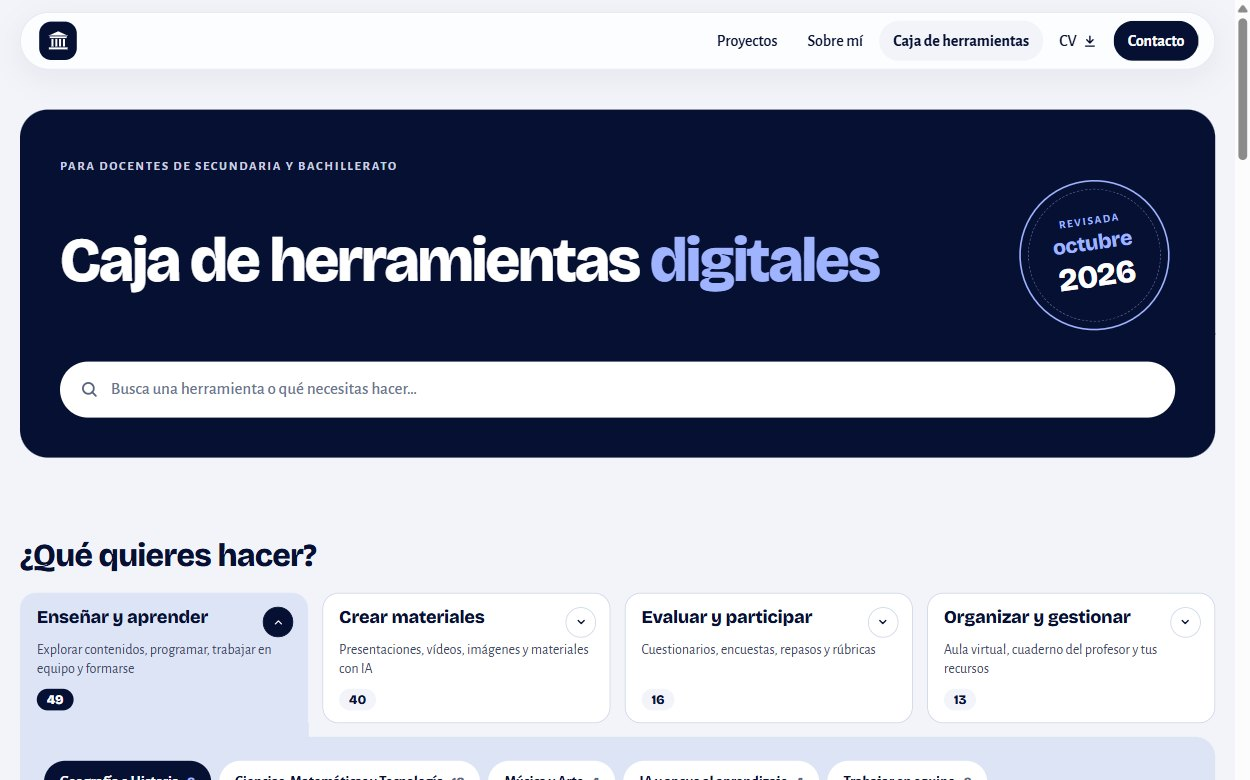
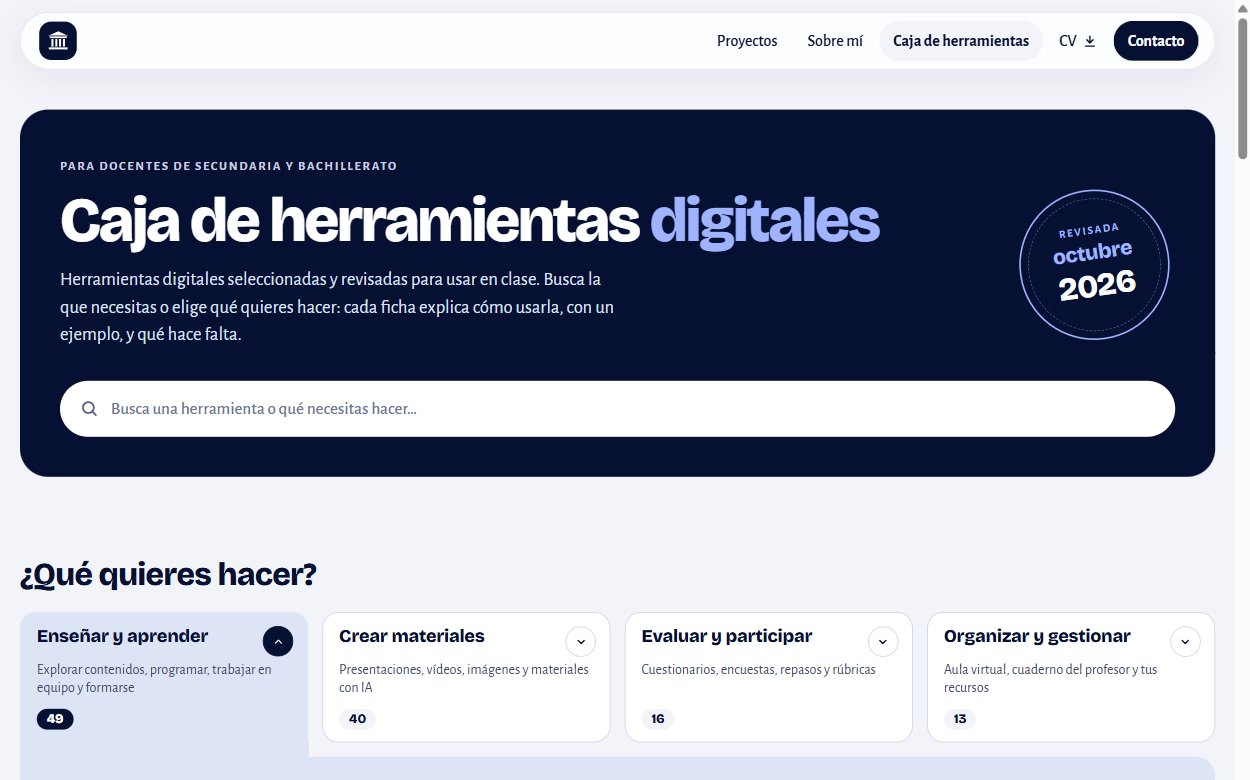
Proyectos en categorías desplegables; descripciones bajo los títulos; descripción en el hero de la Caja
- /proyectos/: las tres categorías despliegan sus proyectos debajo, como en la Caja. Profesorado y formación, la del repositorio, va primera y abierta; una abierta a la vez.
- En todo el portfolio la descripción de cada título va debajo, no a la derecha (también el botón de «Proyectos relacionados»).
- Caja de herramientas: breve descripción en el hero.

diff --git a/proyectos/index.html b/proyectos/index.html
@@ -16,7 +16,7 @@
 <link rel="preconnect" href="https://fonts.googleapis.com">
 <link rel="preconnect" href="https://fonts.gstatic.com" crossorigin>
 <link rel="stylesheet" href="https://fonts.googleapis.com/css2?family=Alegreya+SC:wght@700&family=Alegreya+Sans:ital,wght@0,400;0,500;0,700;1,400&family=Bricolage+Grotesque:opsz,wght@12..96,500;12..96,700;12..96,800&display=swap">
-<link rel="stylesheet" href="/assets/site.css?v=20">
+<link rel="stylesheet" href="/assets/site.css?v=21">
 </head>
 <body>
 <a class="skip" href="#contenido">Saltar al contenido</a>
@@ -40,13 +40,60 @@
    <div><span class="lab">Proyectos</span><h1 class="h1page">Todo lo que he construido</h1></div>
    <p>14 trabajos agrupados por para qué sirven. Los proyectos más grandes se explican a fondo; las actividades y recursos tienen una ficha breve con su descarga o su enlace.</p>
   </div>
-  <div class="catnav rv" role="group" aria-label="Filtrar por categoría"><button type="button" data-cat="all" aria-pressed="true">Todos <span>14</span></button><button type="button" data-cat="herramientas" aria-pressed="false">Herramientas y asistentes <span>3</span></button><button type="button" data-cat="aula" aria-pressed="false">Actividades de aula <span>6</span></button><button type="button" data-cat="profesorado" aria-pressed="false">Profesorado y formación <span>5</span></button></div>
-  <p class="vh" aria-live="polite" id="filtro-estado"></p>
  </section>
 
- <section class="pcat" id="herramientas" aria-labelledby="h-herramientas">
-  <div class="pcat-head rv"><h2 id="h-herramientas">Herramientas y asistentes</h2><p>Aplicaciones y asistentes que he diseñado para que el alumnado o el docente trabajen de otra manera.</p></div>
-  <div class="pgrid g3">
+ <section class="pcats" aria-label="Proyectos por categoría">
+  <div class="cgrid">
+  <h2 class="cg-h" id="profesorado" style="--i:0"><button type="button" class="cg" id="cg-profesorado" aria-expanded="true" aria-controls="cp-profesorado"><b>Profesorado y formación</b><span class="gi"><svg viewBox="0 0 24 24" aria-hidden="true"><path d="m6 9 6 6 6-6"/></svg></span><span class="gd">Recursos y guías para el trabajo del docente, y el portfolio de mi propia formación.</span><span class="num">5<span class="vh"> proyectos</span></span></button></h2>
+  <div class="cgp" id="cp-profesorado" role="region" aria-labelledby="cg-profesorado" style="--i:0"><div class="pgrid g3">
+<a class="t pc lift rv" href="/proyectos/repositorio-digital/">
+ <span class="arrow" aria-hidden="true"><svg viewBox="0 0 24 24" aria-hidden="true"><path d="M7 17 17 7M8 7h9v9"/></svg></span>
+ <div class="viz v-caja" aria-hidden="true"><div class="belt"><div class="track"><img src="/herramientas/logos/gemini.png" alt="" width="34" height="34" loading="lazy"><img src="/herramientas/logos/notebooklm.png" alt="" width="34" height="34" loading="lazy"><img src="/herramientas/logos/genially.png" alt="" width="34" height="34" loading="lazy"><img src="/herramientas/logos/canva.png" alt="" width="34" height="34" loading="lazy"><img src="/herramientas/logos/kahoot.png" alt="" width="34" height="34" loading="lazy"><img src="/herramientas/logos/padlet.png" alt="" width="34" height="34" loading="lazy"><img src="/herramientas/logos/geogebra.png" alt="" width="34" height="34" loading="lazy"><img src="/herramientas/logos/edpuzzle.png" alt="" width="34" height="34" loading="lazy"><img src="/herramientas/logos/artsculture.png" alt="" width="34" height="34" loading="lazy"><img src="/herramientas/logos/wayground.png" alt="" width="34" height="34" loading="lazy"><img src="/herramientas/logos/copilot.png" alt="" width="34" height="34" loading="lazy"><img src="/herramientas/logos/timetoast.png" alt="" width="34" height="34" loading="lazy"><img src="/herramientas/logos/phet.png" alt="" width="34" height="34" loading="lazy"><img src="/herramientas/logos/bookcreator.png" alt="" width="34" height="34" loading="lazy"><img src="/herramientas/logos/wooclap.png" alt="" width="34" height="34" loading="lazy"><img src="/herramientas/logos/scratch.png" alt="" width="34" height="34" loading="lazy"><img src="/herramientas/logos/gemini.png" alt="" width="34" height="34" loading="lazy"><img src="/herramientas/logos/notebooklm.png" alt="" width="34" height="34" loading="lazy"><img src="/herramientas/logos/genially.png" alt="" width="34" height="34" loading="lazy"><img src="/herramientas/logos/canva.png" alt="" width="34" height="34" loading="lazy"><img src="/herramientas/logos/kahoot.png" alt="" width="34" height="34" loading="lazy"><img src="/herramientas/logos/padlet.png" alt="" width="34" height="34" loading="lazy"><img src="/herramientas/logos/geogebra.png" alt="" width="34" height="34" loading="lazy"><img src="/herramientas/logos/edpuzzle.png" alt="" width="34" height="34" loading="lazy"><img src="/herramientas/logos/artsculture.png" alt="" width="34" height="34" loading="lazy"><img src="/herramientas/logos/wayground.png" alt="" width="34" height="34" loading="lazy"><img src="/herramientas/logos/copilot.png" alt="" width="34" height="34" loading="lazy"><img src="/herramientas/logos/timetoast.png" alt="" width="34" height="34" loading="lazy"><img src="/herramientas/logos/phet.png" alt="" width="34" height="34" loading="lazy"><img src="/herramientas/logos/bookcreator.png" alt="" width="34" height="34" loading="lazy"><img src="/herramientas/logos/wooclap.png" alt="" width="34" height="34" loading="lazy"><img src="/herramientas/logos/scratch.png" alt="" width="34" height="34" loading="lazy"></div></div><div class="belt rev"><div class="track"><img src="/herramientas/logos/gemini.png" alt="" width="34" height="34" loading="lazy"><img src="/herramientas/logos/notebooklm.png" alt="" width="34" height="34" loading="lazy"><img src="/herramientas/logos/genially.png" alt="" width="34" height="34" loading="lazy"><img src="/herramientas/logos/canva.png" alt="" width="34" height="34" loading="lazy"><img src="/herramientas/logos/kahoot.png" alt="" width="34" height="34" loading="lazy"><img src="/herramientas/logos/padlet.png" alt="" width="34" height="34" loading="lazy"><img src="/herramientas/logos/geogebra.png" alt="" width="34" height="34" loading="lazy"><img src="/herramientas/logos/edpuzzle.png" alt="" width="34" height="34" loading="lazy"><img src="/herramientas/logos/artsculture.png" alt="" width="34" height="34" loading="lazy"><img src="/herramientas/logos/wayground.png" alt="" width="34" height="34" loading="lazy"><img src="/herramientas/logos/copilot.png" alt="" width="34" height="34" loading="lazy"><img src="/herramientas/logos/timetoast.png" alt="" width="34" height="34" loading="lazy"><img src="/herramientas/logos/phet.png" alt="" width="34" height="34" loading="lazy"><img src="/herramientas/logos/bookcreator.png" alt="" width="34" height="34" loading="lazy"><img src="/herramientas/logos/wooclap.png" alt="" width="34" height="34" loading="lazy"><img src="/herramientas/logos/scratch.png" alt="" width="34" height="34" loading="lazy"><img src="/herramientas/logos/gemini.png" alt="" width="34" height="34" loading="lazy"><img src="/herramientas/logos/notebooklm.png" alt="" width="34" height="34" loading="lazy"><img src="/herramientas/logos/genially.png" alt="" width="34" height="34" loading="lazy"><img src="/herramientas/logos/canva.png" alt="" width="34" height="34" loading="lazy"><img src="/herramientas/logos/kahoot.png" alt="" width="34" height="34" loading="lazy"><img src="/herramientas/logos/padlet.png" alt="" width="34" height="34" loading="lazy"><img src="/herramientas/logos/geogebra.png" alt="" width="34" height="34" loading="lazy"><img src="/herramientas/logos/edpuzzle.png" alt="" width="34" height="34" loading="lazy"><img src="/herramientas/logos/artsculture.png" alt="" width="34" height="34" loading="lazy"><img src="/herramientas/logos/wayground.png" alt="" width="34" height="34" loading="lazy"><img src="/herramientas/logos/copilot.png" alt="" width="34" height="34" loading="lazy"><img src="/herramientas/logos/timetoast.png" alt="" width="34" height="34" loading="lazy"><img src="/herramientas/logos/phet.png" alt="" width="34" height="34" loading="lazy"><img src="/herramientas/logos/bookcreator.png" alt="" width="34" height="34" loading="lazy"><img src="/herramientas/logos/wooclap.png" alt="" width="34" height="34" loading="lazy"><img src="/herramientas/logos/scratch.png" alt="" width="34" height="34" loading="lazy"></div></div></div>
+ <div class="pc-tags">Web de recursos · Profesorado</div>
+ <h3>Repositorio digital docente</h3>
+ <p>La web de herramientas que creé para un centro en 2024 y su revisión de 2026 para Secundaria.</p>
+</a>
+<a class="t pc lift rv" href="/proyectos/audita-tu-programacion/">
+ <span class="arrow" aria-hidden="true"><svg viewBox="0 0 24 24" aria-hidden="true"><path d="M7 17 17 7M8 7h9v9"/></svg></span>
+ <div class="viz v-aud" aria-hidden="true"><div class="made"><span><img src="/assets/tools/notebooklm.png" alt="" width="20" height="20" loading="lazy">NotebookLM</span></div>
+     <div class="row"><b>2.1</b><small>Actividad · UD 4, p. 18</small><span class="ok">✓</span></div>
+     <div class="row"><b>3.2</b><small>Solo en la tabla</small><span class="stamp">NO LOCALIZADO</span></div>
+     <div class="row"><b>5.1</b><small>Actividad · UD 7, p. 31</small><span class="ok">✓</span></div></div>
+ <div class="pc-tags">Guía (PDF) · Profesorado</div>
+ <h3>Audita tu programación</h3>
+ <p>Un método con NotebookLM para encontrar criterios de evaluación que no se evalúan en ninguna actividad.</p>
+</a>
+<a class="t pc lift rv" href="/proyectos/el-bombo/">
+ <span class="arrow" aria-hidden="true"><svg viewBox="0 0 24 24" aria-hidden="true"><path d="M7 17 17 7M8 7h9v9"/></svg></span>
+ <div class="viz v-bombo" aria-hidden="true"><div class="made"><span><img src="/assets/tools/claude.png" alt="" width="20" height="20" loading="lazy">Claude</span></div>
+     <div class="drum"><i style="left:14px;top:20px">7</i><i style="left:62px;top:16px">23</i><i style="left:40px;top:58px">51</i><i style="left:12px;top:66px">12</i><i style="left:70px;top:62px">40</i></div>
+     <div><div class="out"><span>18</span><span class="mine">4</span><span>66</span></div><small>¿Saldrá alguno de tus temas?</small></div></div>
+ <div class="pc-tags">Aplicación web · Opositores</div>
+ <h3>El bombo</h3>
+ <p>Calcula la probabilidad de que salga alguno de tus temas en el sorteo de las oposiciones.</p>
+</a>
+<a class="t pc lift rv" href="/proyectos/rubrica-materiales-digitales/">
+ <span class="arrow" aria-hidden="true"><svg viewBox="0 0 24 24" aria-hidden="true"><path d="M7 17 17 7M8 7h9v9"/></svg></span>
+ <div class="viz v-rub" aria-hidden="true"><div class="made"><span><img src="/assets/tools/jotform.png" alt="" width="20" height="20" loading="lazy">Jotform</span></div>
+     <div class="r"><span>Calidad del contenido</span><span class="lv"><i></i><i></i><i></i><i></i></span></div>
+     <div class="r"><span>Accesibilidad</span><span class="lv"><i></i><i></i><i></i><i></i></span></div>
+     <div class="r"><span>Uso en el aula</span><span class="lv"><i></i><i></i><i></i><i></i></span></div></div>
+ <div class="pc-tags">Formulario · Profesorado</div>
+ <h3>Rúbrica de materiales digitales</h3>
+ <p>Una rúbrica en formulario para valorar un recurso digital antes de llevarlo al aula.</p>
+</a>
+<a class="t pc lift rv" href="/proyectos/e-portfolio-master/">
+ <span class="arrow" aria-hidden="true"><svg viewBox="0 0 24 24" aria-hidden="true"><path d="M7 17 17 7M8 7h9v9"/></svg></span>
+ <div class="viz v-epo" aria-hidden="true"><div class="made"><span><img src="/assets/tools/google-sites.png" alt="" width="20" height="20" loading="lazy">Google Sites</span></div>
+     <div class="bar2"><i></i><i></i><i></i><span></span></div>
+     <div class="pg"><span class="m">M1<small>módulo</small></span><span class="m">M2<small>módulo</small></span><span class="m">M3<small>módulo</small></span><span class="m">M4<small>módulo</small></span><span class="m">M5<small>módulo</small></span></div></div>
+ <div class="pc-tags">Portfolio · Máster</div>
+ <h3>e-Portfolio del máster</h3>
+ <p>Los cinco módulos del Máster en Tecnología Educativa reunidos en una web.</p>
+</a>
+  </div></div>
+  <h2 class="cg-h" id="herramientas" style="--i:1"><button type="button" class="cg" id="cg-herramientas" aria-expanded="false" aria-controls="cp-herramientas"><b>Herramientas y asistentes</b><span class="gi"><svg viewBox="0 0 24 24" aria-hidden="true"><path d="m6 9 6 6 6-6"/></svg></span><span class="gd">Aplicaciones y asistentes que he diseñado para que el alumnado o el docente trabajen de otra manera.</span><span class="num">3<span class="vh"> proyectos</span></span></button></h2>
+  <div class="cgp" id="cp-herramientas" role="region" aria-labelledby="cg-herramientas" style="--i:1" hidden><div class="pgrid g3">
 <a class="t pc lift rv" href="/proyectos/consejo-de-clio/">
  <span class="arrow" aria-hidden="true"><svg viewBox="0 0 24 24" aria-hidden="true"><path d="M7 17 17 7M8 7h9v9"/></svg></span>
  <div class="viz v-council" aria-hidden="true"><div class="council">
@@ -80,11 +127,9 @@
  <h3>Mapa de relieves de la Península Ibérica</h3>
  <p>Un mapa interactivo que localiza cada relieve, era geológica o agente erosivo y lo explica.</p>
 </a>
-  </div>
- </section>
- <section class="pcat" id="aula" aria-labelledby="h-aula">
-  <div class="pcat-head rv"><h2 id="h-aula">Actividades de aula</h2><p>Situaciones de aprendizaje listas para llevar a clase, con su guía docente y sus materiales.</p></div>
-  <div class="pgrid g3">
+  </div></div>
+  <h2 class="cg-h" id="aula" style="--i:2"><button type="button" class="cg" id="cg-aula" aria-expanded="false" aria-controls="cp-aula"><b>Actividades de aula</b><span class="gi"><svg viewBox="0 0 24 24" aria-hidden="true"><path d="m6 9 6 6 6-6"/></svg></span><span class="gd">Situaciones de aprendizaje listas para llevar a clase, con su guía docente y sus materiales.</span><span class="num">6<span class="vh"> proyectos</span></span></button></h2>
+  <div class="cgp" id="cp-aula" role="region" aria-labelledby="cg-aula" style="--i:2" hidden><div class="pgrid g3">
 <a class="t pc lift rv" href="/proyectos/cazadores-de-bulos/">
  <span class="arrow" aria-hidden="true"><svg viewBox="0 0 24 24" aria-hidden="true"><path d="M7 17 17 7M8 7h9v9"/></svg></span>
  <div class="viz v-bulos" aria-hidden="true"><span class="lupa"></span>
@@ -139,61 +184,13 @@
  <h3>Excursión a Roma en 3D</h3>
  <p>Un mundo 3D con edificios de la Antigua Roma para recorrer su arquitectura.</p>
 </a>
+  </div></div>
   </div>
- </section>
- <section class="pcat" id="profesorado" aria-labelledby="h-profesorado">
-  <div class="pcat-head rv"><h2 id="h-profesorado">Profesorado y formación</h2><p>Recursos y guías para el trabajo del docente, y el portfolio de mi propia formación.</p></div>
-  <div class="pgrid g3">
-<a class="t pc lift rv" href="/proyectos/repositorio-digital/">
- <span class="arrow" aria-hidden="true"><svg viewBox="0 0 24 24" aria-hidden="true"><path d="M7 17 17 7M8 7h9v9"/></svg></span>
- <div class="viz v-caja" aria-hidden="true"><div class="belt"><div class="track"><img src="/herramientas/logos/gemini.png" alt="" width="34" height="34" loading="lazy"><img src="/herramientas/logos/notebooklm.png" alt="" width="34" height="34" loading="lazy"><img src="/herramientas/logos/genially.png" alt="" width="34" height="34" loading="lazy"><img src="/herramientas/logos/canva.png" alt="" width="34" height="34" loading="lazy"><img src="/herramientas/logos/kahoot.png" alt="" width="34" height="34" loading="lazy"><img src="/herramientas/logos/padlet.png" alt="" width="34" height="34" loading="lazy"><img src="/herramientas/logos/geogebra.png" alt="" width="34" height="34" loading="lazy"><img src="/herramientas/logos/edpuzzle.png" alt="" width="34" height="34" loading="lazy"><img src="/herramientas/logos/artsculture.png" alt="" width="34" height="34" loading="lazy"><img src="/herramientas/logos/wayground.png" alt="" width="34" height="34" loading="lazy"><img src="/herramientas/logos/copilot.png" alt="" width="34" height="34" loading="lazy"><img src="/herramientas/logos/timetoast.png" alt="" width="34" height="34" loading="lazy"><img src="/herramientas/logos/phet.png" alt="" width="34" height="34" loading="lazy"><img src="/herramientas/logos/bookcreator.png" alt="" width="34" height="34" loading="lazy"><img src="/herramientas/logos/wooclap.png" alt="" width="34" height="34" loading="lazy"><img src="/herramientas/logos/scratch.png" alt="" width="34" height="34" loading="lazy"><img src="/herramientas/logos/gemini.png" alt="" width="34" height="34" loading="lazy"><img src="/herramientas/logos/notebooklm.png" alt="" width="34" height="34" loading="lazy"><img src="/herramientas/logos/genially.png" alt="" width="34" height="34" loading="lazy"><img src="/herramientas/logos/canva.png" alt="" width="34" height="34" loading="lazy"><img src="/herramientas/logos/kahoot.png" alt="" width="34" height="34" loading="lazy"><img src="/herramientas/logos/padlet.png" alt="" width="34" height="34" loading="lazy"><img src="/herramientas/logos/geogebra.png" alt="" width="34" height="34" loading="lazy"><img src="/herramientas/logos/edpuzzle.png" alt="" width="34" height="34" loading="lazy"><img src="/herramientas/logos/artsculture.png" alt="" width="34" height="34" loading="lazy"><img src="/herramientas/logos/wayground.png" alt="" width="34" height="34" loading="lazy"><img src="/herramientas/logos/copilot.png" alt="" width="34" height="34" loading="lazy"><img src="/herramientas/logos/timetoast.png" alt="" width="34" height="34" loading="lazy"><img src="/herramientas/logos/phet.png" alt="" width="34" height="34" loading="lazy"><img src="/herramientas/logos/bookcreator.png" alt="" width="34" height="34" loading="lazy"><img src="/herramientas/logos/wooclap.png" alt="" width="34" height="34" loading="lazy"><img src="/herramientas/logos/scratch.png" alt="" width="34" height="34" loading="lazy"></div></div><div class="belt rev"><div class="track"><img src="/herramientas/logos/gemini.png" alt="" width="34" height="34" loading="lazy"><img src="/herramientas/logos/notebooklm.png" alt="" width="34" height="34" loading="lazy"><img src="/herramientas/logos/genially.png" alt="" width="34" height="34" loading="lazy"><img src="/herramientas/logos/canva.png" alt="" width="34" height="34" loading="lazy"><img src="/herramientas/logos/kahoot.png" alt="" width="34" height="34" loading="lazy"><img src="/herramientas/logos/padlet.png" alt="" width="34" height="34" loading="lazy"><img src="/herramientas/logos/geogebra.png" alt="" width="34" height="34" loading="lazy"><img src="/herramientas/logos/edpuzzle.png" alt="" width="34" height="34" loading="lazy"><img src="/herramientas/logos/artsculture.png" alt="" width="34" height="34" loading="lazy"><img src="/herramientas/logos/wayground.png" alt="" width="34" height="34" loading="lazy"><img src="/herramientas/logos/copilot.png" alt="" width="34" height="34" loading="lazy"><img src="/herramientas/logos/timetoast.png" alt="" width="34" height="34" loading="lazy"><img src="/herramientas/logos/phet.png" alt="" width="34" height="34" loading="lazy"><img src="/herramientas/logos/bookcreator.png" alt="" width="34" height="34" loading="lazy"><img src="/herramientas/logos/wooclap.png" alt="" width="34" height="34" loading="lazy"><img src="/herramientas/logos/scratch.png" alt="" width="34" height="34" loading="lazy"><img src="/herramientas/logos/gemini.png" alt="" width="34" height="34" loading="lazy"><img src="/herramientas/logos/notebooklm.png" alt="" width="34" height="34" loading="lazy"><img src="/herramientas/logos/genially.png" alt="" width="34" height="34" loading="lazy"><img src="/herramientas/logos/canva.png" alt="" width="34" height="34" loading="lazy"><img src="/herramientas/logos/kahoot.png" alt="" width="34" height="34" loading="lazy"><img src="/herramientas/logos/padlet.png" alt="" width="34" height="34" loading="lazy"><img src="/herramientas/logos/geogebra.png" alt="" width="34" height="34" loading="lazy"><img src="/herramientas/logos/edpuzzle.png" alt="" width="34" height="34" loading="lazy"><img src="/herramientas/logos/artsculture.png" alt="" width="34" height="34" loading="lazy"><img src="/herramientas/logos/wayground.png" alt="" width="34" height="34" loading="lazy"><img src="/herramientas/logos/copilot.png" alt="" width="34" height="34" loading="lazy"><img src="/herramientas/logos/timetoast.png" alt="" width="34" height="34" loading="lazy"><img src="/herramientas/logos/phet.png" alt="" width="34" height="34" loading="lazy"><img src="/herramientas/logos/bookcreator.png" alt="" width="34" height="34" loading="lazy"><img src="/herramientas/logos/wooclap.png" alt="" width="34" height="34" loading="lazy"><img src="/herramientas/logos/scratch.png" alt="" width="34" height="34" loading="lazy"></div></div></div>
- <div class="pc-tags">Web de recursos · Profesorado</div>
- <h3>Repositorio digital docente</h3>
- <p>La web de herramientas que creé para un centro en 2024 y su revisión de 2026 para Secundaria.</p>
-</a>
-<a class="t pc lift rv" href="/proyectos/audita-tu-programacion/">
- <span class="arrow" aria-hidden="true"><svg viewBox="0 0 24 24" aria-hidden="true"><path d="M7 17 17 7M8 7h9v9"/></svg></span>
- <div class="viz v-aud" aria-hidden="true"><div class="made"><span><img src="/assets/tools/notebooklm.png" alt="" width="20" height="20" loading="lazy">NotebookLM</span></div>
-     <div class="row"><b>2.1</b><small>Actividad · UD 4, p. 18</small><span class="ok">✓</span></div>
-     <div class="row"><b>3.2</b><small>Solo en la tabla</small><span class="stamp">NO LOCALIZADO</span></div>
-     <div class="row"><b>5.1</b><small>Actividad · UD 7, p. 31</small><span class="ok">✓</span></div></div>
- <div class="pc-tags">Guía (PDF) · Profesorado</div>
- <h3>Audita tu programación</h3>
- <p>Un método con NotebookLM para encontrar criterios de evaluación que no se evalúan en ninguna actividad.</p>
-</a>
-<a class="t pc lift rv" href="/proyectos/el-bombo/">
- <span class="arrow" aria-hidden="true"><svg viewBox="0 0 24 24" aria-hidden="true"><path d="M7 17 17 7M8 7h9v9"/></svg></span>
- <div class="viz v-bombo" aria-hidden="true"><div class="made"><span><img src="/assets/tools/claude.png" alt="" width="20" height="20" loading="lazy">Claude</span></div>
-     <div class="drum"><i style="left:14px;top:20px">7</i><i style="left:62px;top:16px">23</i><i style="left:40px;top:58px">51</i><i style="left:12px;top:66px">12</i><i style="left:70px;top:62px">40</i></div>
-     <div><div class="out"><span>18</span><span class="mine">4</span><span>66</span></div><small>¿Saldrá alguno de tus temas?</small></div></div>
- <div class="pc-tags">Aplicación web · Opositores</div>
- <h3>El bombo</h3>
- <p>Calcula la probabilidad de que salga alguno de tus temas en el sorteo de las oposiciones.</p>
-</a>
-<a class="t pc lift rv" href="/proyectos/rubrica-materiales-digitales/">
- <span class="arrow" aria-hidden="true"><svg viewBox="0 0 24 24" aria-hidden="true"><path d="M7 17 17 7M8 7h9v9"/></svg></span>
- <div class="viz v-rub" aria-hidden="true"><div class="made"><span><img src="/assets/tools/jotform.png" alt="" width="20" height="20" loading="lazy">Jotform</span></div>
-     <div class="r"><span>Calidad del contenido</span><span class="lv"><i></i><i></i><i></i><i></i></span></div>
-     <div class="r"><span>Accesibilidad</span><span class="lv"><i></i><i></i><i></i><i></i></span></div>
-     <div class="r"><span>Uso en el aula</span><span class="lv"><i></i><i></i><i></i><i></i></span></div></div>
- <div class="pc-tags">Formulario · Profesorado</div>
- <h3>Rúbrica de materiales digitales</h3>
- <p>Una rúbrica en formulario para valorar un recurso digital antes de llevarlo al aula.</p>
-</a>
-<a class="t pc lift rv" href="/proyectos/e-portfolio-master/">
- <span class="arrow" aria-hidden="true"><svg viewBox="0 0 24 24" aria-hidden="true"><path d="M7 17 17 7M8 7h9v9"/></svg></span>
- <div class="viz v-epo" aria-hidden="true"><div class="made"><span><img src="/assets/tools/google-sites.png" alt="" width="20" height="20" loading="lazy">Google Sites</span></div>
-     <div class="bar2"><i></i><i></i><i></i><span></span></div>
-     <div class="pg"><span class="m">M1<small>módulo</small></span><span class="m">M2<small>módulo</small></span><span class="m">M3<small>módulo</small></span><span class="m">M4<small>módulo</small></span><span class="m">M5<small>módulo</small></span></div></div>
- <div class="pc-tags">Portfolio · Máster</div>
- <h3>e-Portfolio del máster</h3>
- <p>Los cinco módulos del Máster en Tecnología Educativa reunidos en una web.</p>
-</a>
-  </div>
+  <noscript><style>.cgp[hidden]{display:block}</style></noscript>
  </section>
 </main>
 <footer><span>© 2026 Jorge Delgado Aguilera</span><span>Campanillas, Málaga</span></footer>
 </div>
-<script src="/assets/site.js?v=20" defer></script>
+<script src="/assets/site.js?v=21" defer></script>
 </body>
 </html>

diff --git a/proyectos/repositorio-digital/index.html b/proyectos/repositorio-digital/index.html
@@ -16,7 +16,7 @@
 <link rel="preconnect" href="https://fonts.googleapis.com">
 <link rel="preconnect" href="https://fonts.gstatic.com" crossorigin>
 <link rel="stylesheet" href="https://fonts.googleapis.com/css2?family=Alegreya+SC:wght@700&family=Alegreya+Sans:ital,wght@0,400;0,500;0,700;1,400&family=Bricolage+Grotesque:opsz,wght@12..96,500;12..96,700;12..96,800&display=swap">
-<link rel="stylesheet" href="/assets/site.css?v=20">
+<link rel="stylesheet" href="/assets/site.css?v=21">
 </head>
 <body>
 <a class="skip" href="#contenido">Saltar al contenido</a>
@@ -72,7 +72,7 @@
 <figure><a href="/assets/proyectos/repositorio-digital/inicio-2024.jpg" target="_blank" rel="noopener" aria-label="Ver la imagen a tamaño completo: Portada del repositorio en Google Sites: menú por etapas (Infantil, Primaria, Secundaria y Bachillerato, Apoyo docente, Recursos) y los objetivos del repositorio"><img src="/assets/proyectos/repositorio-digital/inicio-2024.jpg" alt="Portada del repositorio en Google Sites: menú por etapas (Infantil, Primaria, Secundaria y Bachillerato, Apoyo docente, Recursos) y los objetivos del repositorio" loading="lazy" decoding="async" width="1200" height="750"></a><figcaption>La portada, con el menú por etapas.</figcaption></figure></div>
 <div class="ver ver-new"><span class="ver-y">2026</span><h3>La caja de herramientas</h3>
 <ul class="ver-l"><li>Web propia, pensada para Secundaria.</li><li>Herramientas digitales para el aula y el docente. Recursos disponibles.</li><li>Se busca por lo que necesitas hacer: enseñar, crear materiales, evaluar u organizar.</li><li>Filtros secundarios por tipo de recurso y por materia.</li><li>Revisada una a una en octubre de 2026.</li><li>Lo que ha cerrado, su alternativa y la IA con cuenta de centro.</li></ul>
-<figure><a href="/assets/proyectos/repositorio-digital/caja-2026.jpg?v=11" target="_blank" rel="noopener" aria-label="Ver la imagen a tamaño completo: Portada de la Caja de herramientas digitales: un bloque azul marino con el título, el sello «Revisada octubre 2026» y el buscador; debajo, «¿Qué quieres hacer?» con sus cuatro categorías, la primera desplegada con sus pestañas"><img src="/assets/proyectos/repositorio-digital/caja-2026.jpg?v=11" alt="Portada de la Caja de herramientas digitales: un bloque azul marino con el título, el sello «Revisada octubre 2026» y el buscador; debajo, «¿Qué quieres hacer?» con sus cuatro categorías, la primera desplegada con sus pestañas" loading="lazy" decoding="async" width="1250" height="780"></a><figcaption>La portada: título, buscador y «¿Qué quieres hacer?».</figcaption></figure></div>
+<figure><a href="/assets/proyectos/repositorio-digital/caja-2026.jpg?v=12" target="_blank" rel="noopener" aria-label="Ver la imagen a tamaño completo: Portada de la Caja de herramientas digitales: un bloque azul marino con el título, una breve descripción, el sello «Revisada octubre 2026» y el buscador; debajo, «¿Qué quieres hacer?» con sus cuatro categorías, la primera desplegada con sus pestañas"><img src="/assets/proyectos/repositorio-digital/caja-2026.jpg?v=12" alt="Portada de la Caja de herramientas digitales: un bloque azul marino con el título, una breve descripción, el sello «Revisada octubre 2026» y el buscador; debajo, «¿Qué quieres hacer?» con sus cuatro categorías, la primera desplegada con sus pestañas" loading="lazy" decoding="async" width="1250" height="780"></a><figcaption>La portada: título, buscador y «¿Qué quieres hacer?».</figcaption></figure></div>
 </div>
 <div class="caja-demo">
 <div><span class="ver-y">2026</span><h3>Así se usa la caja</h3><p>Buscas una herramienta o eliges qué quieres hacer. La categoría se despliega con sus herramientas, cada ficha explica qué hace el alumnado con un ejemplo y qué necesita, en «Detalles» hay más ideas para clase, y desde ahí la abres.</p></div>
@@ -122,6 +122,6 @@
 </main>
 <footer><span>© 2026 Jorge Delgado Aguilera</span><span>Campanillas, Málaga</span></footer>
 </div>
-<script src="/assets/site.js?v=20" defer></script>
+<script src="/assets/site.js?v=21" defer></script>
 </body>
 </html>

diff --git a/assets/site.css b/assets/site.css
@@ -125,9 +125,9 @@ a.t{text-decoration:none;display:block}
 
 /* ---------- SECCIONES ---------- */
 .sec{margin-top:96px}
-.sec-head{display:flex;justify-content:space-between;align-items:end;gap:20px;flex-wrap:wrap;margin-bottom:22px}
+.sec-head{display:flex;flex-direction:column;align-items:flex-start;gap:14px;margin-bottom:22px}
 .sec-head h2{font:800 clamp(36px,5vw,64px)/.95 var(--f-disp);letter-spacing:-.035em;margin-top:8px}
-.sec-head p{max-width:42ch;color:var(--mut)}
+.sec-head p{max-width:62ch;color:var(--mut)}
 
 /* proyectos */
 .p{display:flex;flex-direction:column;gap:10px;min-height:290px}
@@ -949,3 +949,26 @@ mark.err{background:#FCE3E3;color:inherit;border-bottom:2px solid #C73636;paddin
 @media (max-width:900px){.caja-demo{grid-template-columns:minmax(0,1fr);gap:24px}}
 @media (max-width:560px){.cd .cd-win{padding:10px}.cd .cd-tab .l{display:none}.cd .cd-tab .s{display:inline}.cd .cd-tab{font-size:11.5px;padding:8px 6px}.cd .cd-tab svg{display:none}.cd p.cd-lead{display:none}.cd .cd-card{max-width:none}.cd .cd-pause{right:-6px}}
 @media (prefers-reduced-motion:reduce){.cd .cd-card,.cd .cd-tab,.cd .cd-tab svg,.cd .cd-panel,.cd .cd-sub,.cd .cd-sub span,.cd .cd-steps li,.cd .cd-open,.cd .cd-det{transition:none}.cd .cd-caret{animation:none}.cd .cd-card.more .cd-more{animation:none}}
+
+/* índice de proyectos: categorías que despliegan sus proyectos debajo, unidas al botón como una lágrima */
+.pcats{margin-top:48px}
+.cgrid{display:grid;grid-template-columns:repeat(3,minmax(0,1fr));gap:14px;overflow-anchor:none}
+.cg-h{margin:0;order:var(--i);display:flex;scroll-margin-top:96px}
+.cg{position:relative;width:100%;display:grid;grid-template-columns:minmax(0,1fr) auto;grid-template-rows:auto 1fr auto;column-gap:10px;row-gap:6px;text-align:left;font-family:var(--f-body);color:var(--navy);background:#fff;border:1px solid #D3DAEA;border-radius:18px;padding:18px 18px 16px 20px;cursor:pointer;transition:border-color .2s,background .2s}
+.cg b{font:800 clamp(19px,1.8vw,23px)/1.15 var(--f-disp);letter-spacing:-.015em}
+.cg .gd{grid-column:1/-1;font-size:15px;line-height:1.4;color:#3A4466}
+.cg .num{grid-column:1;align-self:end;justify-self:start;margin-top:6px;font:800 13px var(--f-disp);background:var(--bg);border-radius:999px;padding:3px 11px}
+.cg .gi{grid-column:2;grid-row:1;width:32px;height:32px;border-radius:50%;border:1px solid #D3DAEA;background:#fff;display:grid;place-items:center;transition:transform .25s,background .2s,border-color .2s}
+.cg .gi svg{width:13px;height:13px;stroke:var(--navy);fill:none;stroke-width:2.6;stroke-linecap:round;stroke-linejoin:round}
+.cg:hover{border-color:var(--navy)}
+.cg[aria-expanded="true"]{background:var(--ice);border-color:var(--ice);border-radius:18px 18px 0 0}
+.cg[aria-expanded="true"]::after{content:"";position:absolute;left:-1px;right:-1px;bottom:-16px;height:16px;background:var(--ice)}
+.cg[aria-expanded="true"] .gi{background:var(--navy);border-color:var(--navy);transform:rotate(180deg)}
+.cg[aria-expanded="true"] .gi svg{stroke:#fff}
+.cg[aria-expanded="true"] .num{background:var(--navy);color:#fff}
+.cgp{order:calc(10 + var(--i));grid-column:1/-1;background:var(--ice);border-radius:22px;padding:24px}
+.cgp[hidden]{display:none}
+.cgrid:has(.cg-h:nth-of-type(1) .cg[aria-expanded="true"]) .cgp{border-top-left-radius:0}
+.cgrid:has(.cg-h:nth-of-type(3) .cg[aria-expanded="true"]) .cgp{border-top-right-radius:0}
+@media (max-width:900px){.cgrid{grid-template-columns:minmax(0,1fr);gap:10px}.cg-h,.cgp{order:0}.cgp,.cgrid .cgp{padding:16px;border-radius:0 0 22px 22px}.cg[aria-expanded="true"]::after{bottom:-10px;height:10px}}
+@media (prefers-reduced-motion:reduce){.cg .gi{transition:none}}

diff --git a/assets/site.js b/assets/site.js
@@ -22,13 +22,13 @@ const m=document.querySelectorAll('.council span');
 if(m.length&&!reduce){let i=0;setInterval(()=>{m.forEach(e=>e.classList.remove('talk'));m[i%m.length].classList.add('talk');i++},1400)}
 // cintas de «Con qué trabajo»: se duplica la lista solo para el bucle visual, oculta a lectores de pantalla
 if(!reduce)document.querySelectorAll('.marq .track').forEach(t=>{[...t.children].forEach(li=>{const c=li.cloneNode(true);c.setAttribute('aria-hidden','true');t.appendChild(c)});t.closest('.marq').classList.add('loop')});
-// filtros del índice de proyectos
-const fb=[...document.querySelectorAll('.catnav button')];
-if(fb.length){const st=document.getElementById('filtro-estado');fb.forEach(b=>b.addEventListener('click',()=>{
- fb.forEach(x=>x.setAttribute('aria-pressed',x===b));const c=b.dataset.cat;
- document.querySelectorAll('.pcat').forEach(s=>{s.hidden=!(c==='all'||s.id===c);if(!s.hidden)s.querySelectorAll('.rv').forEach(r=>r.classList.add('in'))});
- if(st)st.textContent=c==='all'?'Mostrando todos los proyectos':'Mostrando: '+b.firstChild.textContent.trim();
-}));
-// si se llega con #categoría, se aplica ese filtro
-const h=location.hash.slice(1);const pre=fb.find(b=>b.dataset.cat===h);if(pre)pre.click();}
+// categorías del índice de proyectos: cada botón despliega sus proyectos debajo; solo una abierta a la vez
+const cg=[...document.querySelectorAll('.cg')];
+if(cg.length){
+ const set=(b,o)=>{b.setAttribute('aria-expanded',o);const p=document.getElementById(b.getAttribute('aria-controls'));p.hidden=!o;if(o)p.querySelectorAll('.rv').forEach(r=>r.classList.add('in'));};
+ const open=(b,o)=>{const y=b.getBoundingClientRect().top;if(o)cg.forEach(x=>{if(x!==b)set(x,false)});set(b,o);
+  const dy=b.getBoundingClientRect().top-y;if(Math.abs(dy)>1)scrollBy({top:dy,behavior:'instant'});};
+ cg.forEach(b=>b.addEventListener('click',()=>open(b,b.getAttribute('aria-expanded')!=='true')));
+ // si se llega con #categoría, se abre esa
+ const h=location.hash.slice(1),pre=cg.find(b=>b.id==='cg-'+h);if(pre)set(pre,true),cg.forEach(x=>{if(x!==pre)set(x,false)});}
 })();

diff --git a/herramientas/index.html b/herramientas/index.html
@@ -117,7 +117,8 @@ footer a{font-weight:700}
 .head .lab{grid-column:1/-1;display:block;font-size:12.5px;line-height:1.5;color:var(--pale)}
 .head h1{font:800 clamp(40px,5vw,72px)/.96 var(--f-disp);letter-spacing:-.035em;margin-top:14px;color:#fff}
 .head h1 span{color:var(--sky)}
-.seal{width:150px;height:150px;border-radius:50%;border:2px solid var(--sky);display:grid;place-items:center;text-align:center;color:var(--sky);transform:rotate(-8deg);position:relative;margin:4px 6px 0 0}
+.head-d{grid-column:1;font-size:clamp(16.5px,1.5vw,18.5px);line-height:1.5;color:#DCE3F7;margin-top:16px;max-width:58ch}
+.seal{grid-column:2;grid-row:2/4;width:150px;height:150px;border-radius:50%;border:2px solid var(--sky);display:grid;place-items:center;text-align:center;color:var(--sky);transform:rotate(-8deg);position:relative;margin:4px 6px 0 0}
 .seal::before{content:"";position:absolute;inset:7px;border-radius:50%;border:1.5px dashed rgba(159,179,255,.5)}
 /* foco azulado que sigue al cursor, como en el hero del Repositorio; cubre título y buscador como un solo bloque */
 .head,.find-box{position:relative;isolation:isolate}
@@ -368,6 +369,7 @@ body.mini-on .top{transform:translateY(-140%)}
  <section class="head" id="hero" aria-labelledby="ph1">
   <span class="lab">Para docentes de Secundaria y Bachillerato</span>
   <h1 id="ph1">Caja de herramientas <span>digitales</span></h1>
+  <p class="head-d">Herramientas digitales seleccionadas y revisadas para usar en clase. Busca la que necesitas o elige qué quieres hacer: cada ficha explica cómo usarla, con un ejemplo, y qué hace falta.</p>
   <p class="seal"><time datetime="2026-10"><small>Revisada</small><b>octubre</b><strong>2026</strong><span class="sr"> Revisada en octubre de 2026</span></time></p>
  </section>
 

diff --git a/index.html b/index.html
@@ -16,7 +16,7 @@
 <link rel="preconnect" href="https://fonts.googleapis.com">
 <link rel="preconnect" href="https://fonts.gstatic.com" crossorigin>
 <link rel="stylesheet" href="https://fonts.googleapis.com/css2?family=Alegreya+SC:wght@700&family=Alegreya+Sans:ital,wght@0,400;0,500;0,700;1,400&family=Bricolage+Grotesque:opsz,wght@12..96,500;12..96,700;12..96,800&display=swap">
-<link rel="stylesheet" href="/assets/site.css?v=20">
+<link rel="stylesheet" href="/assets/site.css?v=21">
 </head>
 <body>
 <a class="skip" href="#contenido">Saltar al contenido</a>
@@ -195,6 +195,6 @@
 </main>
 <footer><span>© 2026 Jorge Delgado Aguilera</span><span>Campanillas, Málaga</span></footer>
 </div>
-<script src="/assets/site.js?v=20" defer></script>
+<script src="/assets/site.js?v=21" defer></script>
 </body>
 </html>

diff --git a/proyectos/asistente-gpt-2eso/index.html b/proyectos/asistente-gpt-2eso/index.html
@@ -16,7 +16,7 @@
 <link rel="preconnect" href="https://fonts.googleapis.com">
 <link rel="preconnect" href="https://fonts.gstatic.com" crossorigin>
 <link rel="stylesheet" href="https://fonts.googleapis.com/css2?family=Alegreya+SC:wght@700&family=Alegreya+Sans:ital,wght@0,400;0,500;0,700;1,400&family=Bricolage+Grotesque:opsz,wght@12..96,500;12..96,700;12..96,800&display=swap">
-<link rel="stylesheet" href="/assets/site.css?v=20">
+<link rel="stylesheet" href="/assets/site.css?v=21">
 </head>
 <body>
 <a class="skip" href="#contenido">Saltar al contenido</a>
@@ -118,6 +118,6 @@
 </main>
 <footer><span>© 2026 Jorge Delgado Aguilera</span><span>Campanillas, Málaga</span></footer>
 </div>
-<script src="/assets/site.js?v=20" defer></script>
+<script src="/assets/site.js?v=21" defer></script>
 </body>
 </html>

diff --git a/proyectos/cazadores-de-bulos/index.html b/proyectos/cazadores-de-bulos/index.html
@@ -16,7 +16,7 @@
 <link rel="preconnect" href="https://fonts.googleapis.com">
 <link rel="preconnect" href="https://fonts.gstatic.com" crossorigin>
 <link rel="stylesheet" href="https://fonts.googleapis.com/css2?family=Alegreya+SC:wght@700&family=Alegreya+Sans:ital,wght@0,400;0,500;0,700;1,400&family=Bricolage+Grotesque:opsz,wght@12..96,500;12..96,700;12..96,800&display=swap">
-<link rel="stylesheet" href="/assets/site.css?v=20">
+<link rel="stylesheet" href="/assets/site.css?v=21">
 </head>
 <body>
 <a class="skip" href="#contenido">Saltar al contenido</a>
@@ -104,6 +104,6 @@
 </main>
 <footer><span>© 2026 Jorge Delgado Aguilera</span><span>Campanillas, Málaga</span></footer>
 </div>
-<script src="/assets/site.js?v=20" defer></script>
+<script src="/assets/site.js?v=21" defer></script>
 </body>
 </html>

diff --git a/proyectos/consejo-de-clio/index.html b/proyectos/consejo-de-clio/index.html
@@ -16,7 +16,7 @@
 <link rel="preconnect" href="https://fonts.googleapis.com">
 <link rel="preconnect" href="https://fonts.gstatic.com" crossorigin>
 <link rel="stylesheet" href="https://fonts.googleapis.com/css2?family=Alegreya+SC:wght@700&family=Alegreya+Sans:ital,wght@0,400;0,500;0,700;1,400&family=Bricolage+Grotesque:opsz,wght@12..96,500;12..96,700;12..96,800&display=swap">
-<link rel="stylesheet" href="/assets/site.css?v=20">
+<link rel="stylesheet" href="/assets/site.css?v=21">
 </head>
 <body>
 <a class="skip" href="#contenido">Saltar al contenido</a>
@@ -112,6 +112,6 @@
 </main>
 <footer><span>© 2026 Jorge Delgado Aguilera</span><span>Campanillas, Málaga</span></footer>
 </div>
-<script src="/assets/site.js?v=20" defer></script>
+<script src="/assets/site.js?v=21" defer></script>
 </body>
 </html>

diff --git a/proyectos/la-nube-pesa/index.html b/proyectos/la-nube-pesa/index.html
@@ -16,7 +16,7 @@
 <link rel="preconnect" href="https://fonts.googleapis.com">
 <link rel="preconnect" href="https://fonts.gstatic.com" crossorigin>
 <link rel="stylesheet" href="https://fonts.googleapis.com/css2?family=Alegreya+SC:wght@700&family=Alegreya+Sans:ital,wght@0,400;0,500;0,700;1,400&family=Bricolage+Grotesque:opsz,wght@12..96,500;12..96,700;12..96,800&display=swap">
-<link rel="stylesheet" href="/assets/site.css?v=20">
+<link rel="stylesheet" href="/assets/site.css?v=21">
 </head>
 <body>
 <a class="skip" href="#contenido">Saltar al contenido</a>
@@ -101,6 +101,6 @@
 </main>
 <footer><span>© 2026 Jorge Delgado Aguilera</span><span>Campanillas, Málaga</span></footer>
 </div>
-<script src="/assets/site.js?v=20" defer></script>
+<script src="/assets/site.js?v=21" defer></script>
 </body>
 </html>

diff --git a/proyectos/mapa-de-relieves/index.html b/proyectos/mapa-de-relieves/index.html
@@ -16,7 +16,7 @@
 <link rel="preconnect" href="https://fonts.googleapis.com">
 <link rel="preconnect" href="https://fonts.gstatic.com" crossorigin>
 <link rel="stylesheet" href="https://fonts.googleapis.com/css2?family=Alegreya+SC:wght@700&family=Alegreya+Sans:ital,wght@0,400;0,500;0,700;1,400&family=Bricolage+Grotesque:opsz,wght@12..96,500;12..96,700;12..96,800&display=swap">
-<link rel="stylesheet" href="/assets/site.css?v=20">
+<link rel="stylesheet" href="/assets/site.css?v=21">
 </head>
 <body>
 <a class="skip" href="#contenido">Saltar al contenido</a>
@@ -102,6 +102,6 @@
 </main>
 <footer><span>© 2026 Jorge Delgado Aguilera</span><span>Campanillas, Málaga</span></footer>
 </div>
-<script src="/assets/site.js?v=20" defer></script>
+<script src="/assets/site.js?v=21" defer></script>
 </body>
 </html>

diff --git a/proyectos/audita-tu-programacion/index.html b/proyectos/audita-tu-programacion/index.html
@@ -16,7 +16,7 @@
 <link rel="preconnect" href="https://fonts.googleapis.com">
 <link rel="preconnect" href="https://fonts.gstatic.com" crossorigin>
 <link rel="stylesheet" href="https://fonts.googleapis.com/css2?family=Alegreya+SC:wght@700&family=Alegreya+Sans:ital,wght@0,400;0,500;0,700;1,400&family=Bricolage+Grotesque:opsz,wght@12..96,500;12..96,700;12..96,800&display=swap">
-<link rel="stylesheet" href="/assets/site.css?v=20">
+<link rel="stylesheet" href="/assets/site.css?v=21">
 </head>
 <body>
 <a class="skip" href="#contenido">Saltar al contenido</a>
@@ -95,6 +95,6 @@
 </main>
 <footer><span>© 2026 Jorge Delgado Aguilera</span><span>Campanillas, Málaga</span></footer>
 </div>
-<script src="/assets/site.js?v=20" defer></script>
+<script src="/assets/site.js?v=21" defer></script>
 </body>
 </html>
